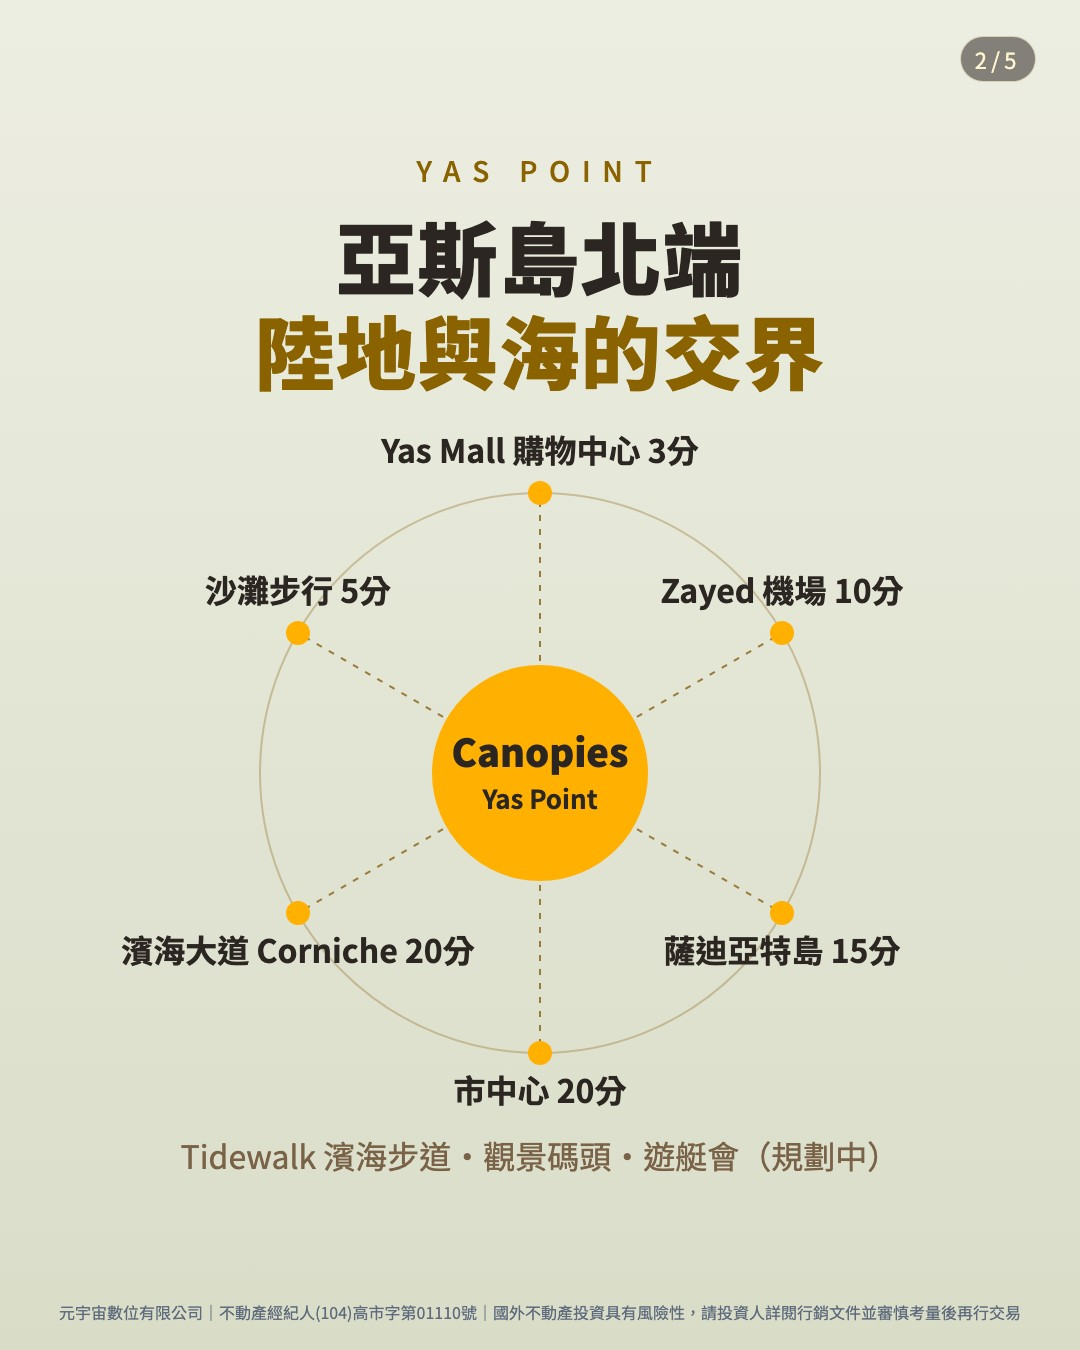
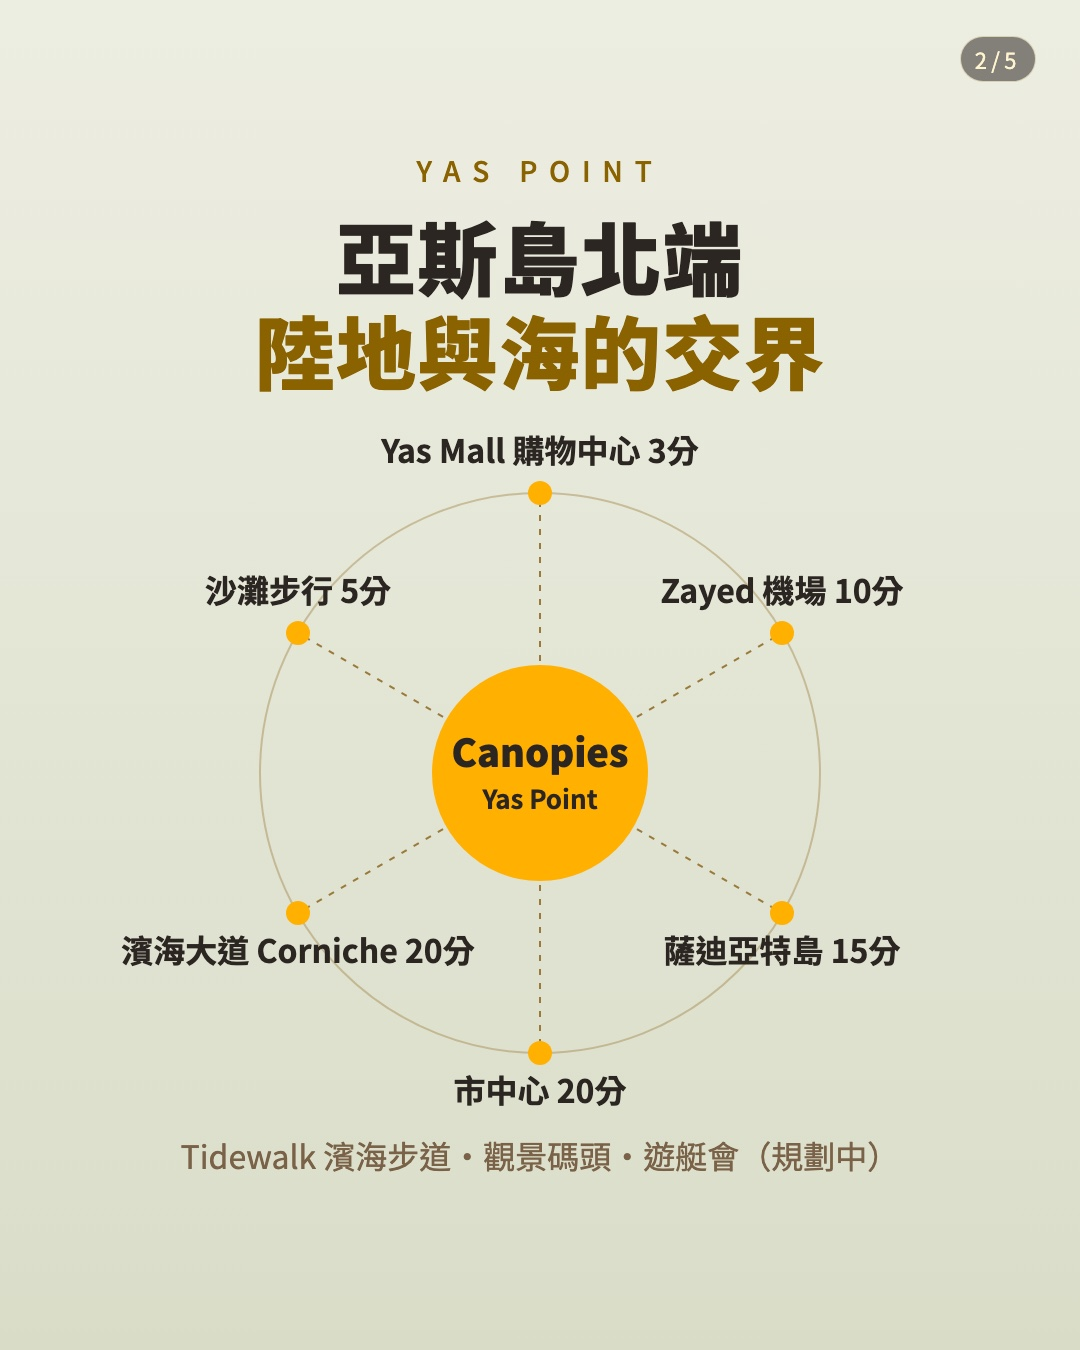
posts-2610：依 Shirley 9/30 回覆修正（Sei 建設期累計 45%、台北上下午各一場、警語僅最後一張）

Changed region(s): [[0.0611, 0.9644, 0.9472, 0.9956]]

diff --git a/posts-2610/index.html b/posts-2610/index.html
@@ -49,36 +49,36 @@ ul.plain li::before{content:"・";color:var(--gold)}
   <h2>2610-01｜<em>Sei Saadiyat</em></h2>
   <p class="lead">元宇宙全球置產｜預計發佈 9/29（已過，請指定新發佈日）</p>
   <div class="grid">
-    <figure><img src="img/sei-01.jpg" alt="Sei 1"><figcaption>1 主視覺</figcaption></figure>
-    <figure><img src="img/sei-02.jpg" alt="Sei 2"><figcaption>2 文化區六大地標</figcaption></figure>
-    <figure><img src="img/sei-03.jpg" alt="Sei 3"><figcaption>3 房型與挑高 Loft</figcaption></figure>
-    <figure><img src="img/sei-04.jpg" alt="Sei 4"><figcaption>4 付款時程 50／50</figcaption></figure>
-    <figure><img src="img/sei-05.jpg" alt="Sei 5"><figcaption>5 說明會資訊</figcaption></figure>
+    <figure><img src="img/sei-01.jpg?v=1001" alt="Sei 1"><figcaption>1 主視覺</figcaption></figure>
+    <figure><img src="img/sei-02.jpg?v=1001" alt="Sei 2"><figcaption>2 文化區六大地標</figcaption></figure>
+    <figure><img src="img/sei-03.jpg?v=1001" alt="Sei 3"><figcaption>3 房型與挑高 Loft</figcaption></figure>
+    <figure><img src="img/sei-04.jpg?v=1001" alt="Sei 4"><figcaption>4 付款時程 50／50</figcaption></figure>
+    <figure><img src="img/sei-05.jpg?v=1001" alt="Sei 5"><figcaption>5 說明會資訊</figcaption></figure>
   </div>
   <a class="dl" href="sei-saadiyat-5.zip" download>下載 Sei 原尺寸 5 張（PNG）</a>
 
   <h2>2610-02｜<em>The Canopies</em></h2>
   <p class="lead">元宇宙全球置產｜預計發佈 10/1</p>
   <div class="grid">
-    <figure><img src="img/can-01.jpg" alt="Canopies 1"><figcaption>1 主視覺</figcaption></figure>
-    <figure><img src="img/can-02.jpg" alt="Canopies 2"><figcaption>2 Yas Point 區位</figcaption></figure>
-    <figure><img src="img/can-03.jpg" alt="Canopies 3"><figcaption>3 島上娛樂與學校</figcaption></figure>
-    <figure><img src="img/can-04.jpg" alt="Canopies 4"><figcaption>4 房型與頭期</figcaption></figure>
-    <figure><img src="img/can-05.jpg" alt="Canopies 5"><figcaption>5 說明會資訊</figcaption></figure>
+    <figure><img src="img/can-01.jpg?v=1001" alt="Canopies 1"><figcaption>1 主視覺</figcaption></figure>
+    <figure><img src="img/can-02.jpg?v=1001" alt="Canopies 2"><figcaption>2 Yas Point 區位</figcaption></figure>
+    <figure><img src="img/can-03.jpg?v=1001" alt="Canopies 3"><figcaption>3 島上娛樂與學校</figcaption></figure>
+    <figure><img src="img/can-04.jpg?v=1001" alt="Canopies 4"><figcaption>4 房型與頭期</figcaption></figure>
+    <figure><img src="img/can-05.jpg?v=1001" alt="Canopies 5"><figcaption>5 說明會資訊</figcaption></figure>
   </div>
   <a class="dl" href="the-canopies-5.zip" download>下載 Canopies 原尺寸 5 張（PNG）</a>
 
   <h2>2610-03｜<em>預售屋交屋前房貸</em></h2>
   <p class="lead">杜拜房姊 Ishtar｜預計發佈 9/30｜單張資訊圖，依要求不放建案渲染圖</p>
   <div class="grid g3">
-    <figure><img src="img/sci03-01.jpg" alt="2610-03"><figcaption>50／50 分界：自備／可申請銀行支應</figcaption></figure>
+    <figure><img src="img/sci03-01.jpg?v=1001" alt="2610-03"><figcaption>50／50 分界：自備／可申請銀行支應</figcaption></figure>
   </div>
 
   <h2>2610-04｜<em>沙漠的水，哪裡來</em></h2>
   <p class="lead">杜拜房姊 Ishtar｜預計發佈 10/8｜兩張，未使用任何建案圖</p>
   <div class="grid g3">
-    <figure><img src="img/sci04-01.jpg" alt="2610-04 1"><figcaption>1 冷氣室外機滴水</figcaption></figure>
-    <figure><img src="img/sci04-02.jpg" alt="2610-04 2"><figcaption>2 社區草坪灌溉</figcaption></figure>
+    <figure><img src="img/sci04-01.jpg?v=1001" alt="2610-04 1"><figcaption>1 冷氣室外機滴水</figcaption></figure>
+    <figure><img src="img/sci04-02.jpg?v=1001" alt="2610-04 2"><figcaption>2 社區草坪灌溉</figcaption></figure>
   </div>
   <a class="dl" href="kepu-2610-03-04.zip" download>下載 2610-03、04 原尺寸 3 張（PNG）</a>
 
@@ -87,7 +87,7 @@ ul.plain li::before{content:"・";color:var(--gold)}
     <ul class="plain">
       <li>色調採淺色底：Sei 取型錄材質色、Canopies 帶淡草綠，金色維持品牌色</li>
       <li>素材只使用 Aldar 官方對外建案圖；未使用迪士尼任何圖像</li>
-      <li>未放戶數、坪數與交屋時間；圖上無句點；警語置於每張頁尾</li>
+      <li>未放戶數、坪數與交屋時間；圖上無句點；警語僅置於每篇最後一張</li>
       <li>報名 QR 與 EDM 相同，官方 LINE @239cdxzf</li>
       <li>2610-04 兩張照片為 AI 生成的情境圖（冷氣滴水、杜拜社區草坪），非特定建案實景；若希望改用實拍圖庫，可再替換</li>
       <li>科普兩篇右上角放分類標籤「買房教室」「杜拜生活」；有數據的地方附資料來源小字</li>
